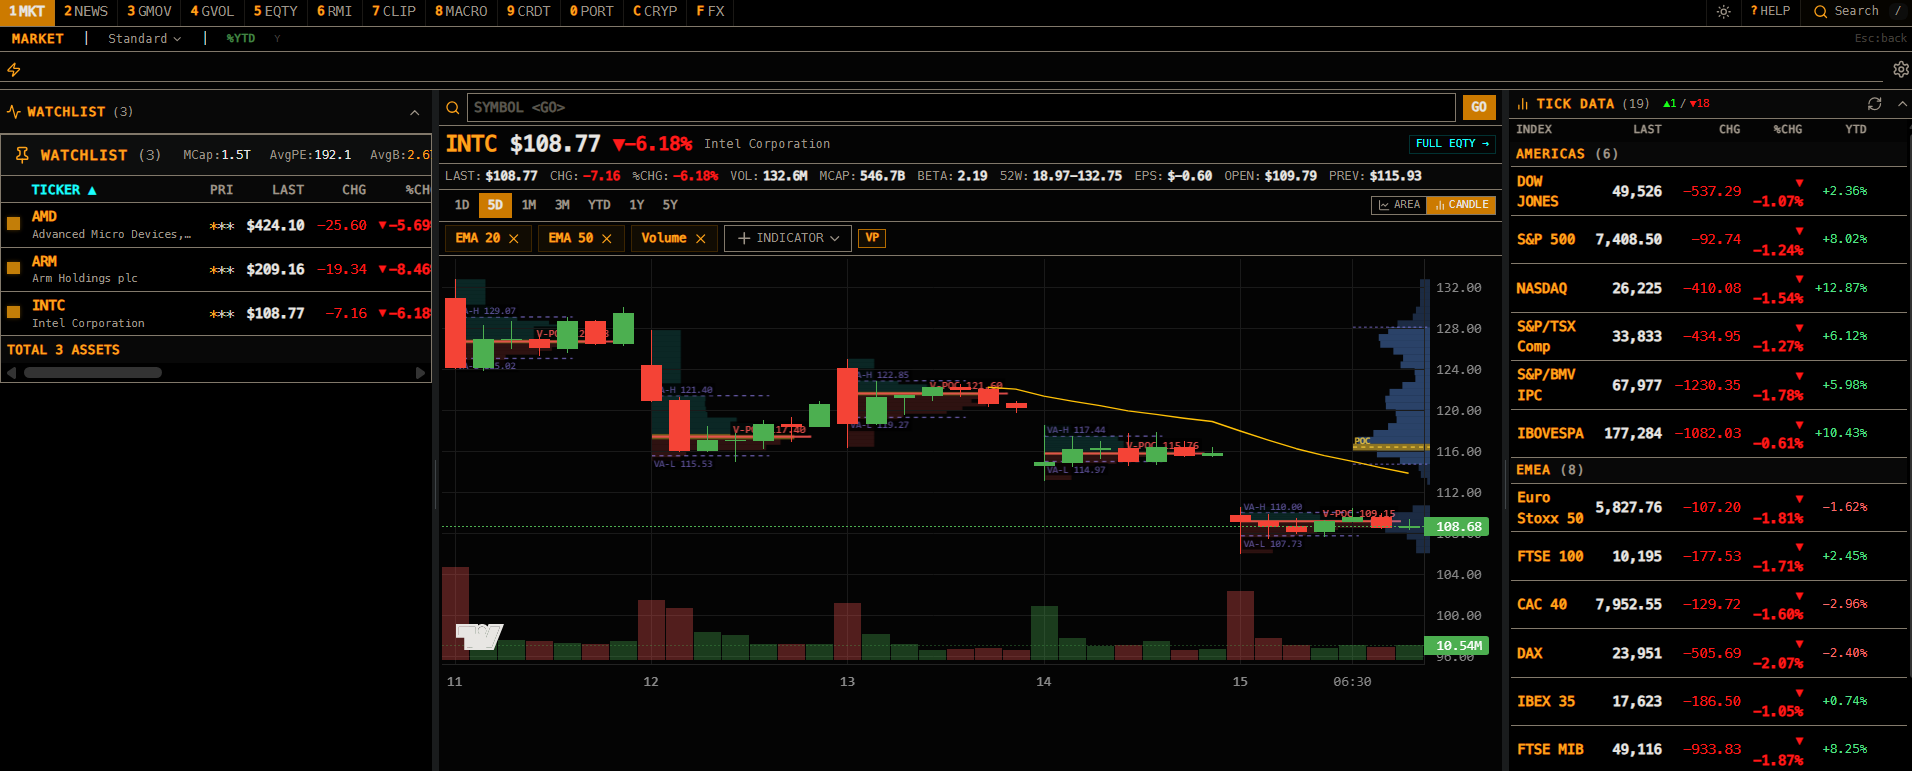
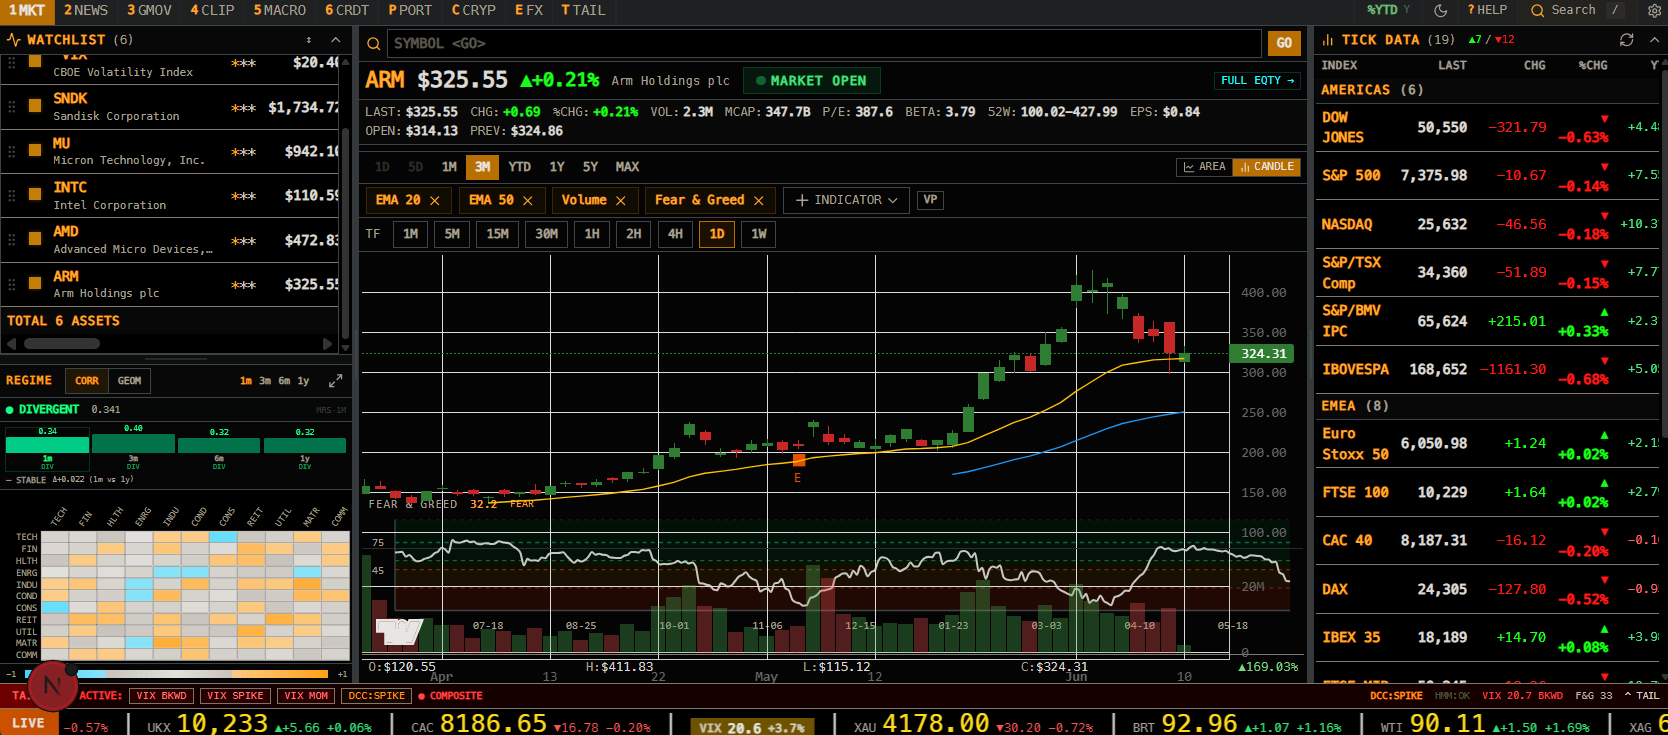
docs: add screenshot to README

diff --git a/README.md b/README.md
@@ -4,6 +4,8 @@ A personal Bloomberg-style financial terminal built for local use. Real-time mar
 
 > **Local-only by design.** No authentication layer. Do not expose this to the internet without adding auth.
 
+![Bloomberg Terminal](README.png)
+
 ---
 
 ## Features
